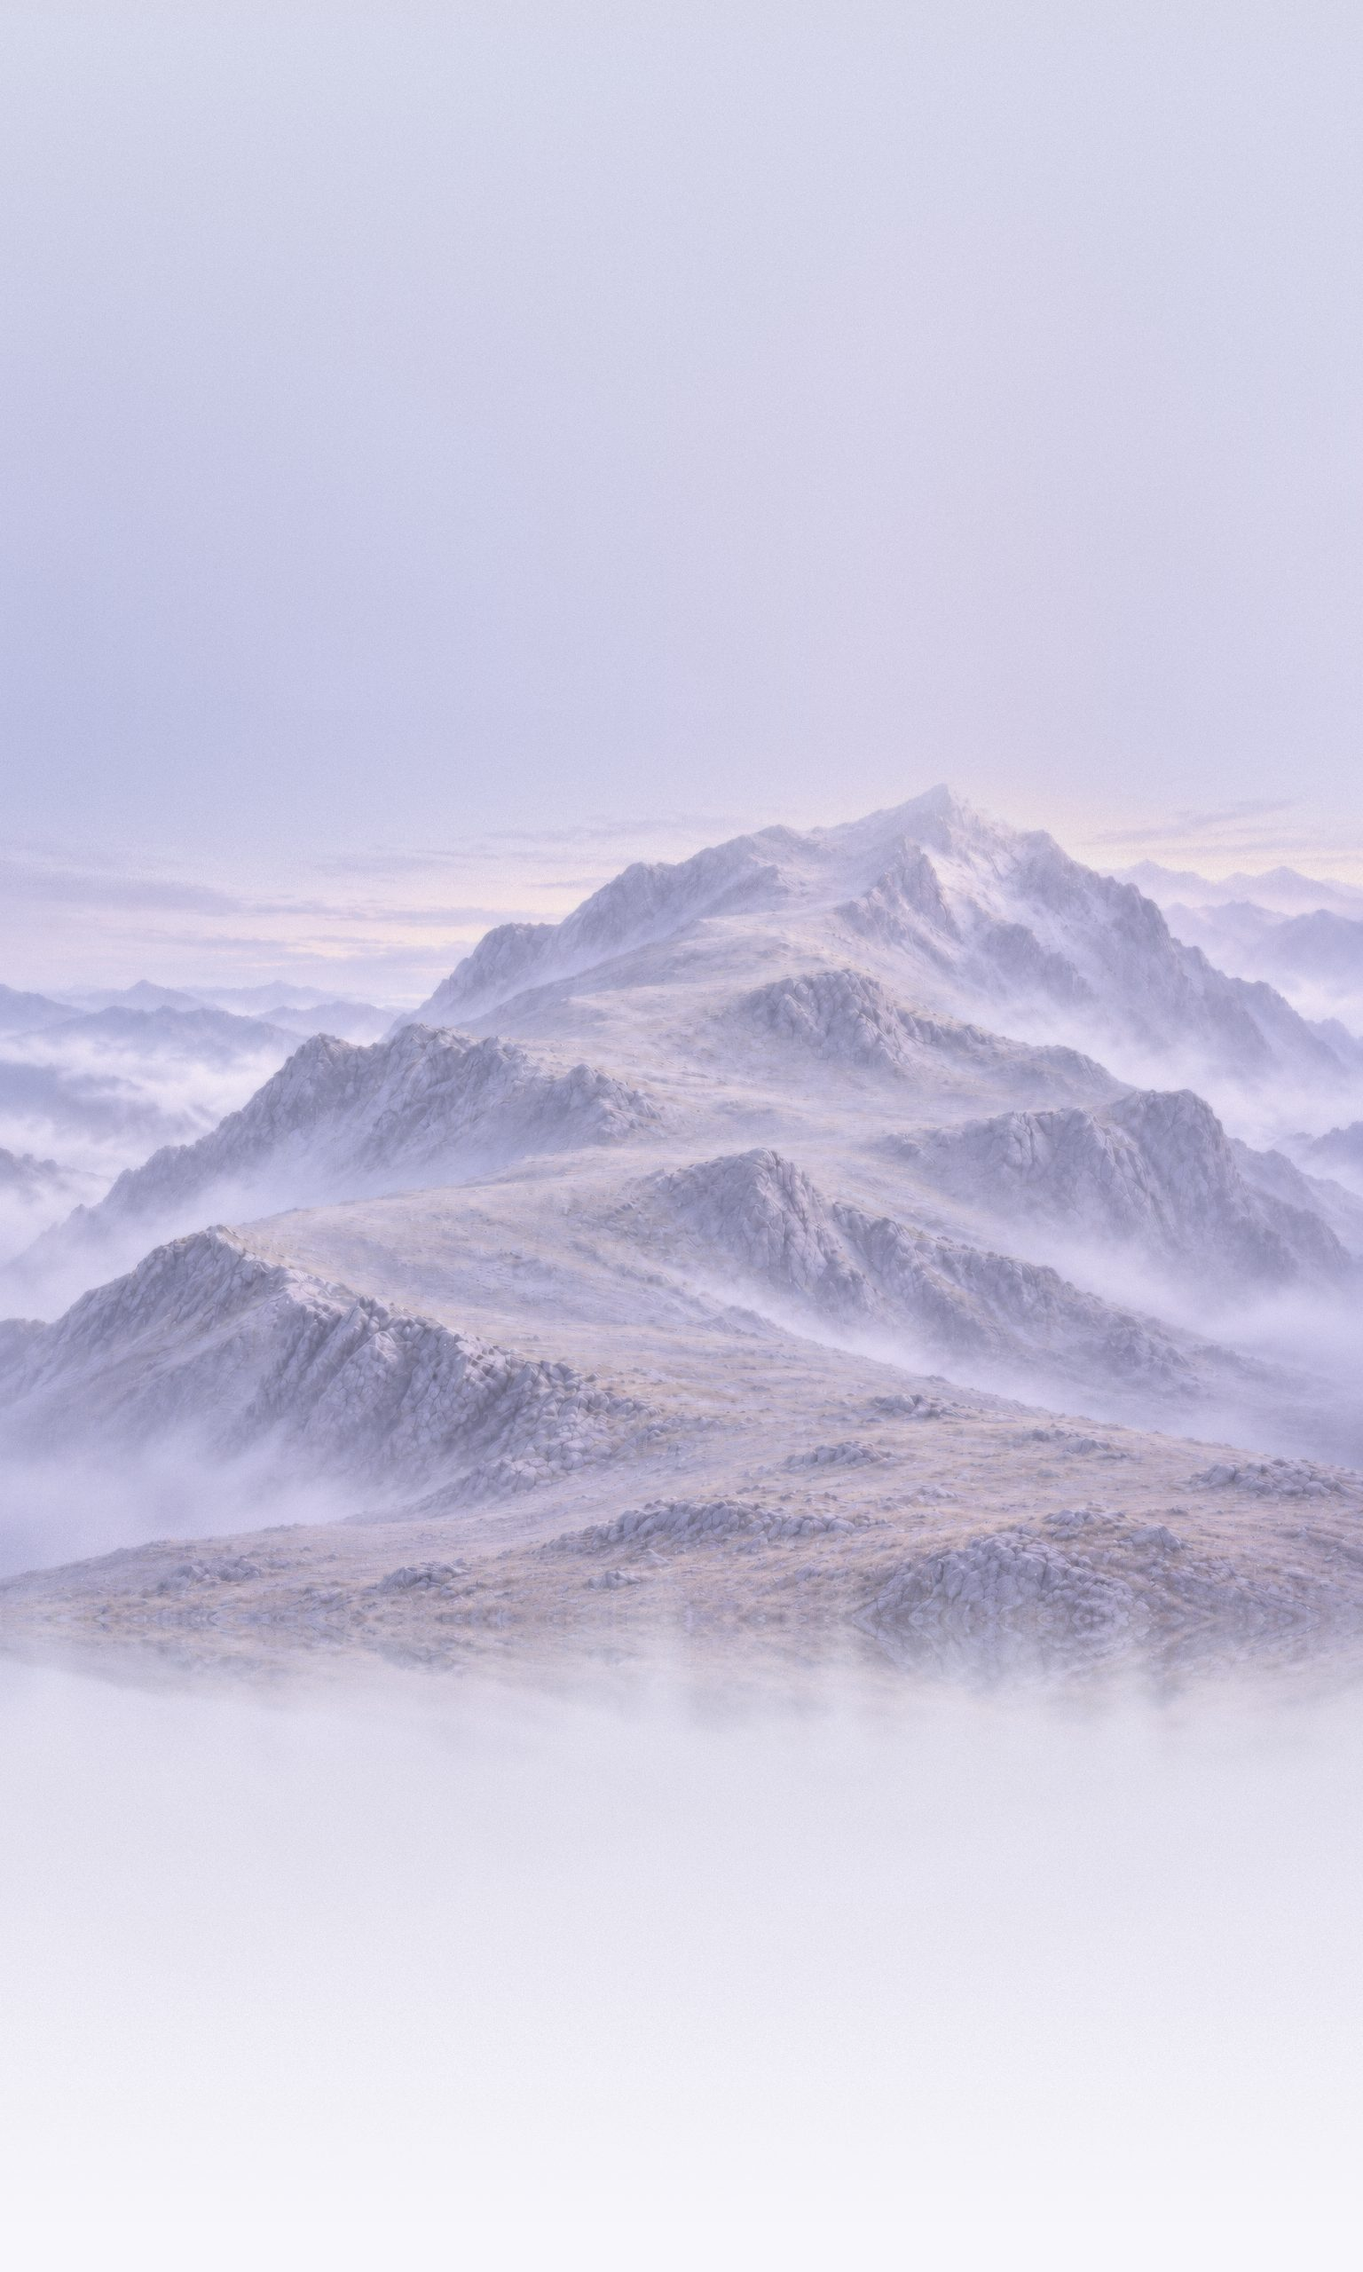
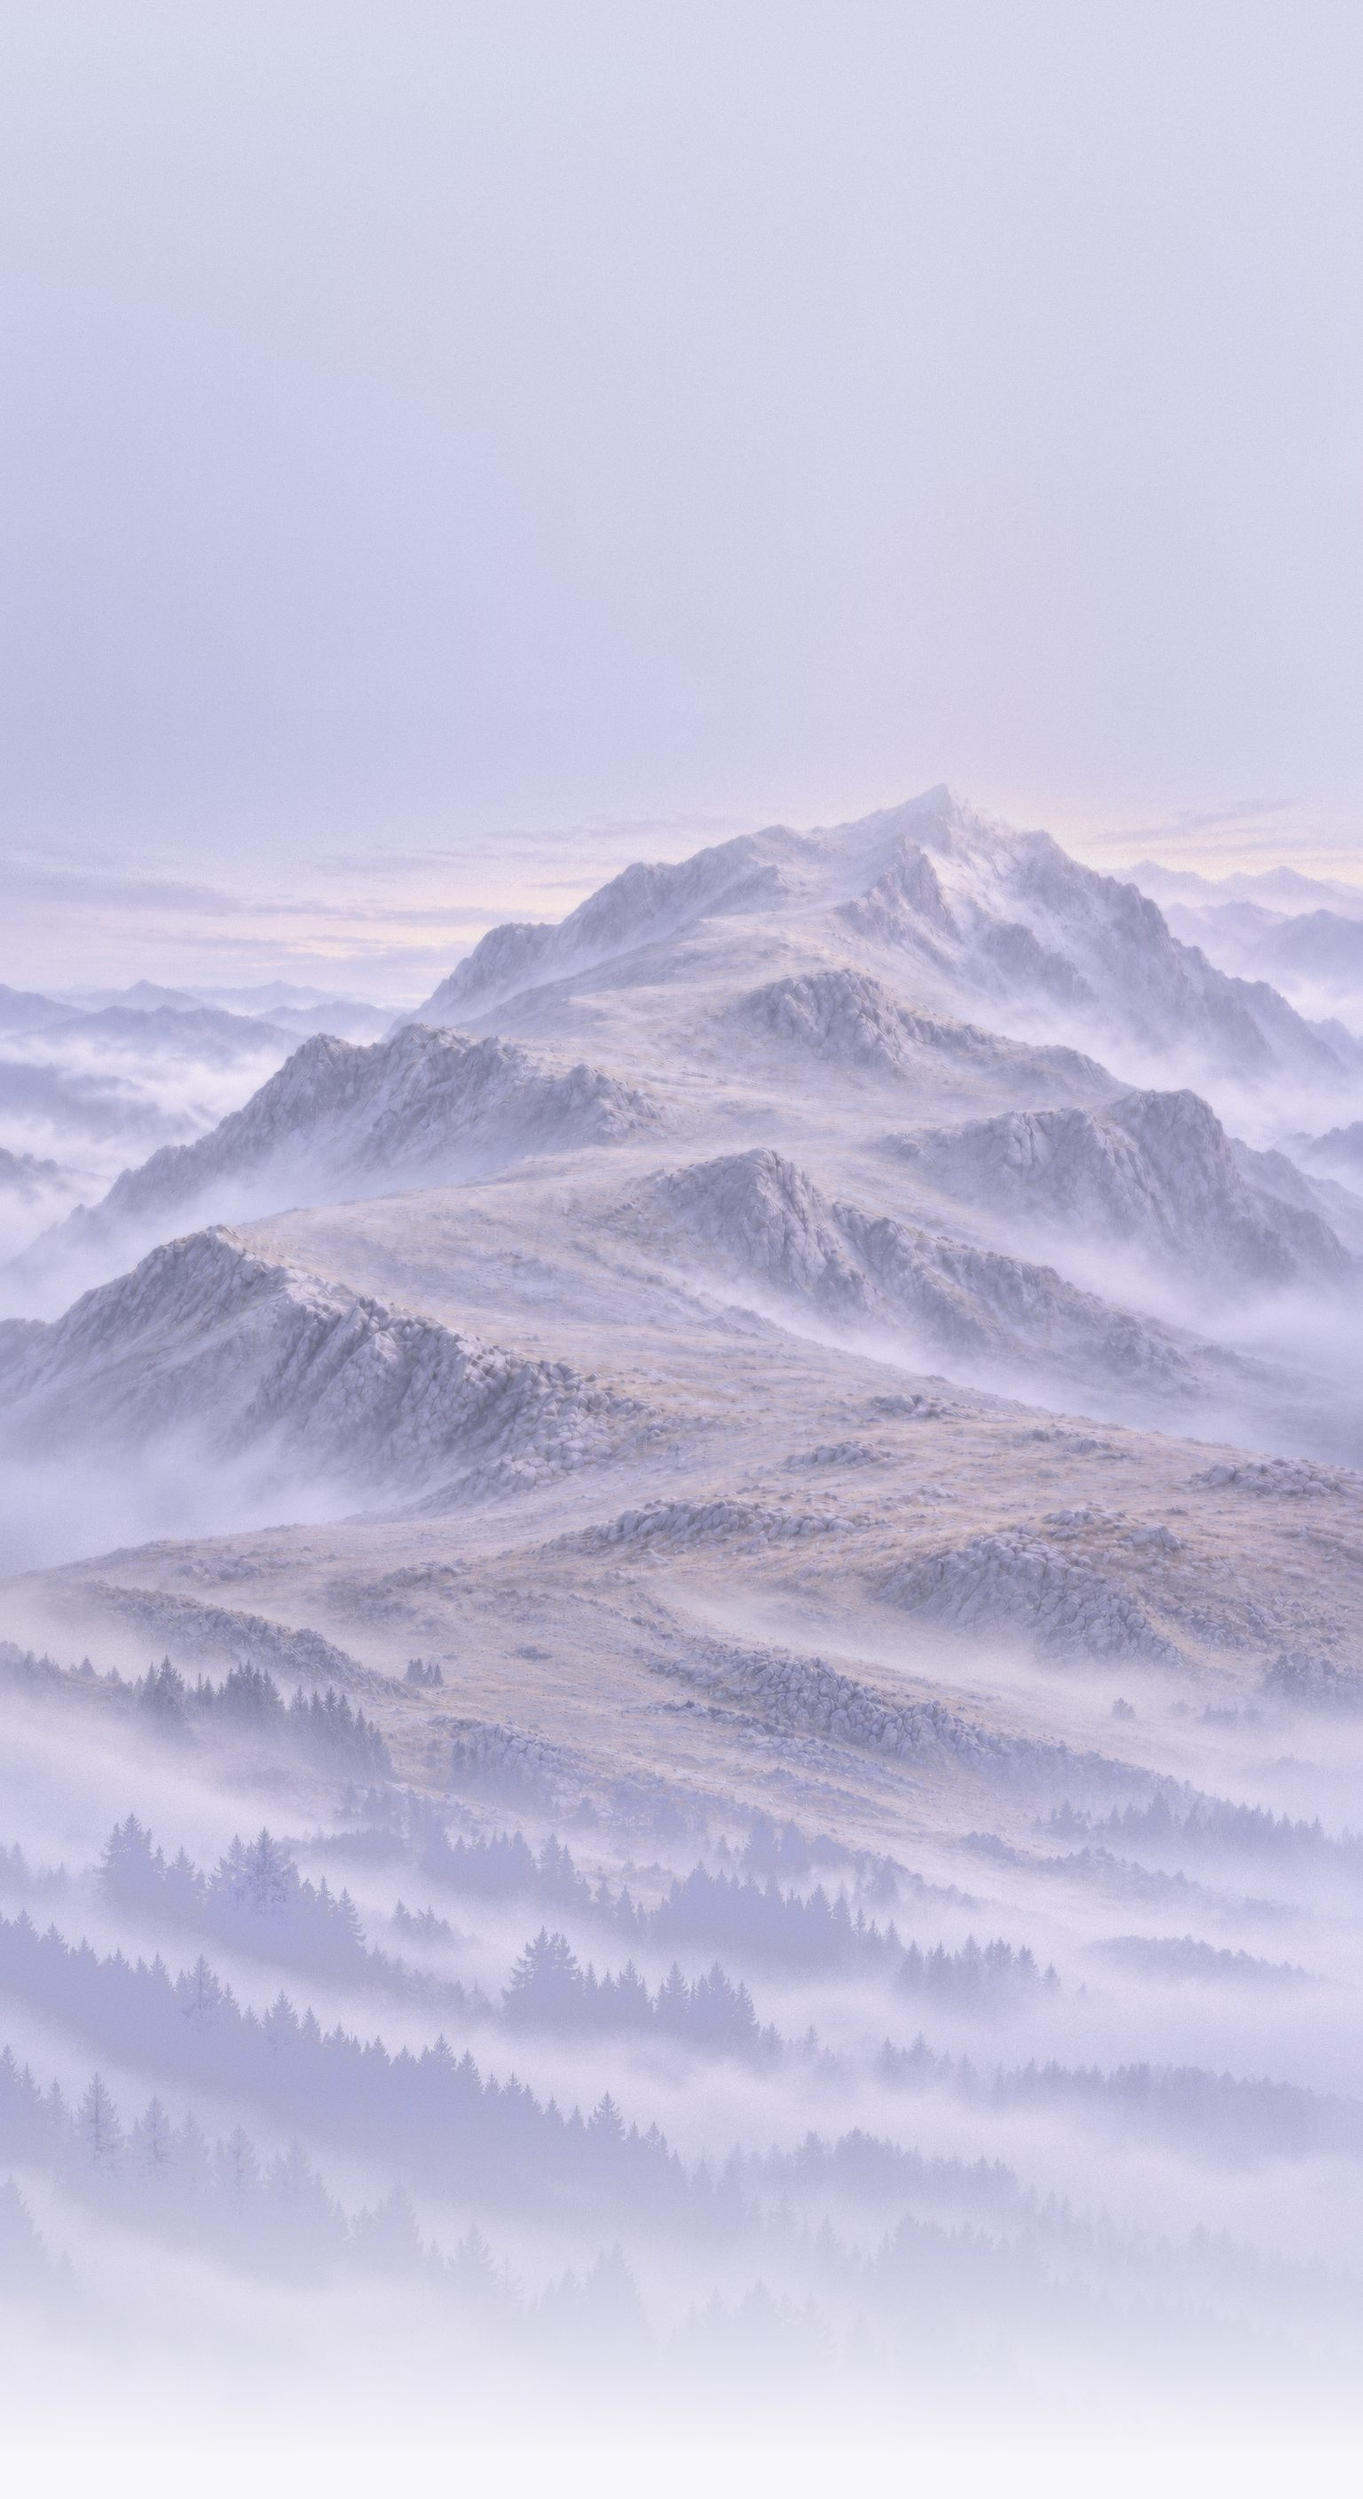
Put the forest canvas behind Today with slow parallax
- assets/world-*.jpg are now the assembled canvas: sky, the approved
  painting, then slopes, treeline and pine forest fading into the app
  background (1536x2816 per theme)
- Today moves the world and the trail on it at 40% of the scroll speed on the
  UI thread, so scrolling drifts down the mountain past the forest; the words
  and cards scroll at full speed; taps on the trail account for both
- The sky behind the status bar moves with the world
- Dark and light art now crossfade fully, so a softened image edge can't show
  the other theme's art through it

Claude-Session: https://claude.ai/code/session_01TpqLTggzL92uJWvftw7JkZ

diff --git a/src/app/today.tsx b/src/app/today.tsx
@@ -1,18 +1,17 @@
 import { Ionicons } from '@expo/vector-icons';
 import { router } from 'expo-router';
 import { useCallback, useEffect, useMemo, useRef, useState } from 'react';
-import {
-  GestureResponderEvent,
-  NativeScrollEvent,
-  NativeSyntheticEvent,
-  Pressable,
-  ScrollView,
-  StyleSheet,
-  useWindowDimensions,
-  View,
-} from 'react-native';
+import { GestureResponderEvent, Pressable, StyleSheet, useWindowDimensions, View } from 'react-native';
 import { useSafeAreaInsets } from 'react-native-safe-area-context';
-import Animated, { FadeIn, FadeInDown, FadeOut, LinearTransition } from 'react-native-reanimated';
+import Animated, {
+  FadeIn,
+  FadeInDown,
+  FadeOut,
+  LinearTransition,
+  useAnimatedScrollHandler,
+  useAnimatedStyle,
+  useSharedValue,
+} from 'react-native-reanimated';
 import { Confetti } from '../components/Art';
 import { AscentCaption, ascentLabel, AscentLabels, AscentScene, tapPoint } from '../components/Ascent';
 import { Comeback } from '../components/Comeback';
@@ -23,7 +22,7 @@ import { Button, ProgressBar, T } from '../components/ui';
 import { WorldBackdrop } from '../components/World';
 import { ascentDays, nearestDay, phaseFor } from '../core/ascent';
 import { comebackFor } from '../core/comeback';
-import { trailPoint, worldFrame } from '../core/world';
+import { PARALLAX, trailPoint, worldFrame } from '../core/world';
 import { dateForDay, PROGRAM_DAYS } from '../core/dates';
 import { getHabit, habitTitle, levelUp } from '../core/habits';
 import {
@@ -73,16 +72,21 @@ export default function Today() {
   const xp = useMemo(() => totalXp(logs), [logs]);
   const streak = useMemo(() => currentStreak(logs, start, today), [logs, start, today]);
   const offers = useMemo(() => levelUpOffers(plan, logs, start, today), [plan, logs, start, today]);
-  const { width } = useWindowDimensions();
+  const { width, height: screenHeight } = useWindowDimensions();
   const [selectedDay, setSelectedDay] = useState<number | null>(null);
   // The mountain and its trail stay still while the page scrolls over them. The trail area in the page is a
   // transparent placeholder: its measured position places the world, and taps on it map back to the trail.
   const [zoneTop, setZoneTop] = useState(insets.top + 96);
   const { zoneHeight } = worldFrame(width, zoneTop);
-  const scrollY = useRef(0);
-  const onScroll = useCallback((e: NativeSyntheticEvent<NativeScrollEvent>) => {
-    scrollY.current = e.nativeEvent.contentOffset.y;
-  }, []);
+  // The world (and the trail on it) moves at PARALLAX of the page's speed, on the UI thread, so scrolling
+  // drifts down the mountain past the slopes and forest while the page's words and cards move at full speed.
+  const scrollY = useSharedValue(0);
+  const onScroll = useAnimatedScrollHandler((e) => {
+    scrollY.set(e.contentOffset.y);
+  });
+  const parallax = useAnimatedStyle(() => ({ transform: [{ translateY: -PARALLAX * scrollY.get() }] }));
+  // Tall enough that the moving world still covers the screen at the bottom of a long page.
+  const worldLayer = { height: screenHeight * 2 };
   const days = useMemo(() => ascentDays(logs, start, today), [logs, start, today]);
   const todayDone = plan.filter((p) => todayLog?.completed.includes(p.habitId)).length;
   const comeback = useMemo(
@@ -99,7 +103,7 @@ export default function Today() {
   const onOpenJourney = useCallback((day?: number) => router.push(day ? `/journey?day=${day}` : '/journey'), []);
   const onTrailPress = useCallback(
     (e: GestureResponderEvent) => {
-      const day = nearestDay(trailPoint(tapPoint(e), scrollY.current), width, zoneHeight, 16);
+      const day = nearestDay(trailPoint(tapPoint(e), scrollY.get()), width, zoneHeight, 16);
       if (day === null || day === selectedDay) {
         setSelectedDay(null);
         return;
@@ -107,7 +111,7 @@ export default function Today() {
       haptic.tap();
       setSelectedDay(day === today ? null : day);
     },
-    [width, zoneHeight, selectedDay, today],
+    [width, zoneHeight, selectedDay, today, scrollY],
   );
 
   const onToggle = useCallback(
@@ -147,11 +151,13 @@ export default function Today() {
 
   return (
     <View style={styles.root}>
-      <WorldBackdrop zoneTop={zoneTop} />
-      <View pointerEvents="none" style={[styles.scene, { top: zoneTop }]}>
-        <AscentScene days={days} today={today} width={width} selected={selectedDay} todayDone={todayQualifies} />
-      </View>
-      <ScrollView
+      <Animated.View pointerEvents="none" style={[styles.world, worldLayer, parallax]}>
+        <WorldBackdrop zoneTop={zoneTop} />
+        <View style={[styles.scene, { top: zoneTop }]}>
+          <AscentScene days={days} today={today} width={width} selected={selectedDay} todayDone={todayQualifies} />
+        </View>
+      </Animated.View>
+      <Animated.ScrollView
         onScroll={onScroll}
         scrollEventThrottle={16}
         contentContainerStyle={[
@@ -302,9 +308,13 @@ export default function Today() {
             </T>
           </View>
         ) : null}
-      </ScrollView>
+      </Animated.ScrollView>
       {/* The same sky, fixed behind the status bar, so the page scrolls under it rather than under the clock. */}
-      <WorldBackdrop zoneTop={zoneTop} clip={insets.top} />
+      <View pointerEvents="none" style={[styles.statusSky, { height: insets.top }]}>
+        <Animated.View style={[styles.world, worldLayer, parallax]}>
+          <WorldBackdrop zoneTop={zoneTop} />
+        </Animated.View>
+      </View>
 
       {celebrate ? <Confetti spread={200} /> : null}
       {celebrate ? (
@@ -456,6 +466,8 @@ function IconButton({
 
 const styles = StyleSheet.create({
   root: { flex: 1 },
+  world: { position: 'absolute', left: 0, right: 0, top: 0 },
+  statusSky: { position: 'absolute', left: 0, right: 0, top: 0, overflow: 'hidden' },
   scene: { position: 'absolute', left: 0 },
   scroll: { paddingHorizontal: space.lg, gap: space.lg },
   // Full-bleed: the page has side padding, the mountain doesn't.

diff --git a/src/components/World.tsx b/src/components/World.tsx
@@ -1,4 +1,4 @@
-import { Image, StyleSheet, useWindowDimensions } from 'react-native';
+import { StyleSheet, useWindowDimensions } from 'react-native';
 import { useSafeAreaInsets } from 'react-native-safe-area-context';
 import Animated, { useAnimatedStyle } from 'react-native-reanimated';
 import { worldFrame } from '../core/world';
@@ -13,16 +13,18 @@ const ART = {
 /**
  * The Schwung world behind a screen: sky, the mountain, and fog that settles into the app background.
  * `zoneTop` is where the painting (the trail area) starts, measured from this view's top.
- * `dim` veils it with the background color for text-heavy screens. `clip` limits it to a top strip
- * (Today uses that to keep the sky behind the status bar while the page scrolls under it).
+ * `dim` veils it with the background color for text-heavy screens.
  * Decorative only: hidden from screen readers and ignores touches.
  */
-export function WorldBackdrop({ zoneTop, dim = 0, clip }: { zoneTop: number; dim?: number; clip?: number }) {
+export function WorldBackdrop({ zoneTop, dim = 0 }: { zoneTop: number; dim?: number }) {
   const { c } = useTheme();
   const { width } = useWindowDimensions();
   const { imageTop, imageHeight } = worldFrame(width, zoneTop);
   const theme = useThemeProgress();
   const lightArt = useAnimatedStyle(() => ({ opacity: theme.value }));
+  // The dark art fades out as the light fades in (not left underneath), so the light image's softened bottom
+  // edge can't show a line of dark art through it.
+  const darkArt = useAnimatedStyle(() => ({ opacity: 1 - theme.value }));
   const image = { position: 'absolute' as const, left: 0, top: imageTop, width, height: imageHeight };
 
   return (
@@ -31,14 +33,10 @@ export function WorldBackdrop({ zoneTop, dim = 0, clip }: { zoneTop: number; dim
       accessible={false}
       accessibilityElementsHidden
       importantForAccessibility="no-hide-descendants"
-      style={[
-        styles.fill,
-        { backgroundColor: c.bg },
-        clip !== undefined && { bottom: undefined, height: clip, overflow: 'hidden' },
-      ]}
+      style={[styles.fill, { backgroundColor: c.bg }]}
     >
-      {/* Both themes stay mounted; light crossfades over dark with the theme, like the Ascent did. */}
-      <Image source={ART.dark} style={image} resizeMode="cover" />
+      {/* Both themes stay mounted and crossfade with the theme. */}
+      <Animated.Image source={ART.dark} style={[image, darkArt]} resizeMode="cover" />
       <Animated.Image source={ART.light} style={[image, lightArt]} resizeMode="cover" />
       {dim > 0 ? <ThemedView style={[styles.fill, { backgroundColor: c.bg, opacity: dim }]} /> : null}
     </ThemedView>

diff --git a/src/core/__tests__/world.test.ts b/src/core/__tests__/world.test.ts
@@ -1,6 +1,6 @@
 import { describe, expect, it } from '@jest/globals';
 import { ASCENT_ASPECT, DAY_POINTS, nearestDay } from '../ascent';
-import { trailPoint, WORLD, worldFrame } from '../world';
+import { PARALLAX, trailPoint, WORLD, worldFrame } from '../world';
 
 describe('world placement', () => {
   it('puts the painting exactly where the trail is drawn, on every phone width', () => {
@@ -24,15 +24,16 @@ describe('world placement', () => {
   });
 });
 
-describe('tapping the still trail while the page is scrolled', () => {
+describe('tapping the trail while the page is scrolled (parallax)', () => {
   it('maps a tap on the scrolled placeholder back to the day under the finger', () => {
     const width = 393;
     const height = width / ASCENT_ASPECT;
     for (const scrollY of [0, 40, 120]) {
       for (const day of [1, 7, 21, 30, 44, 66]) {
         const p = DAY_POINTS[day - 1];
-        // The marker is fixed on screen; the placeholder moved up by scrollY, so the tap lands lower in it.
-        const tap = { x: p.x * width, y: p.y * height + scrollY };
+        // The page (and the placeholder) moved up scrollY; the trail only PARALLAX * scrollY.
+        // So the finger on the marker lands (1 - PARALLAX) * scrollY lower in the placeholder.
+        const tap = { x: p.x * width, y: p.y * height + scrollY * (1 - PARALLAX) };
         expect(nearestDay(trailPoint(tap, scrollY), width, height, 16)).toBe(day);
       }
     }
@@ -42,6 +43,13 @@ describe('tapping the still trail while the page is scrolled', () => {
     const width = 393;
     const height = width / ASCENT_ASPECT;
     const p = DAY_POINTS[29];
-    expect(nearestDay({ x: p.x * width, y: p.y * height + 120 }, width, height, 16)).not.toBe(30);
+    expect(nearestDay({ x: p.x * width, y: p.y * height + 120 * (1 - PARALLAX) }, width, height, 16)).not.toBe(30);
+  });
+});
+
+describe('parallax', () => {
+  it('moves the world slower than the page, so scrolling reveals what lies below', () => {
+    expect(PARALLAX).toBeGreaterThan(0);
+    expect(PARALLAX).toBeLessThan(1);
   });
 });

diff --git a/src/core/world.ts b/src/core/world.ts
@@ -1,17 +1,21 @@
 import { ASCENT_ASPECT } from './ascent';
 
 /*
- * The full-screen world: assets/world-*.jpg are the Ascent painting with sky added above and fog below.
+ * The full-screen world: assets/world-*.jpg are the Ascent painting with sky above and the descent below it
+ * (slopes, treeline, forest), fading into the app background (design/canvas/assemble_canvas.py).
  * The painting itself (where the trail is drawn) sits untouched at a fixed place inside the tall image,
  * so lining the trail up with it is just a matter of scale.
  */
 export const WORLD = {
-  /** Source image size in px (see design/artwork-guides/tools/extend_tall.py). */
+  /** Source image size in px. */
   width: 1536,
-  height: 2560,
+  height: 2816,
   /** Where the 3:2 painting starts inside the tall image, in px. */
   paintingTop: 800,
 } as const;
+
+/** On Today the world moves at this fraction of the page's scroll speed, revealing the slopes below. */
+export const PARALLAX = 0.4;
 
 export type WorldFrame = {
   /** The tall image's top edge, relative to whatever `zoneTop` is measured from (usually the screen). */
@@ -32,9 +36,9 @@ export function worldFrame(width: number, zoneTop: number): WorldFrame {
 }
 
 /**
- * Today's trail stays still while the page scrolls over it. A tap lands on the scrolling placeholder, so
- * its position there is shifted back by the scroll distance to find the point on the trail.
+ * Today's trail moves with the world, slower than the page. A tap lands on the page's placeholder, which has
+ * moved `scrollY` while the trail moved `scrollY * PARALLAX`, so the difference is shifted back out.
  */
 export function trailPoint(tap: { x: number; y: number }, scrollY: number): { x: number; y: number } {
-  return { x: tap.x, y: tap.y - scrollY };
+  return { x: tap.x, y: tap.y - scrollY * (1 - PARALLAX) };
 }

diff --git a/DECISIONS.md b/DECISIONS.md
@@ -164,5 +164,11 @@ Places where the handoff was ambiguous or silent, what was chosen, and why. Each
     - *Words scroll, the world stays*: the phase names and "Phase n of 3 / Day n" are part of the page (they
       scroll with the greeting and cards); the mountain, trail, markers, landmarks and orb stay still. Pinned
       words collided with the page's text while scrolling (owner report).
+    - *One Continuous Ascent* (in progress, `design/canvas/CANVAS_SPEC.md`): the world now continues below the
+      painting (slopes, treeline, pine forest; `assemble_canvas.py`, 1536×2816 per theme) and Today moves it
+      at 40% of the scroll speed (`PARALLAX`), with the trail and orb moving along so they stay aligned. Taps
+      subtract the scroll × (1 − PARALLAX). The light and dark art crossfade fully (the dark art fades out
+      rather than staying underneath), so an image's softened edge can't show the other theme through it.
+      Still to come: the valley piece below the forest, and the shared camera between screens.
     - Ceremonies, Journey, Settings and the sheets are unchanged. `scripts/generate-ascent-art.py` is legacy.
 
